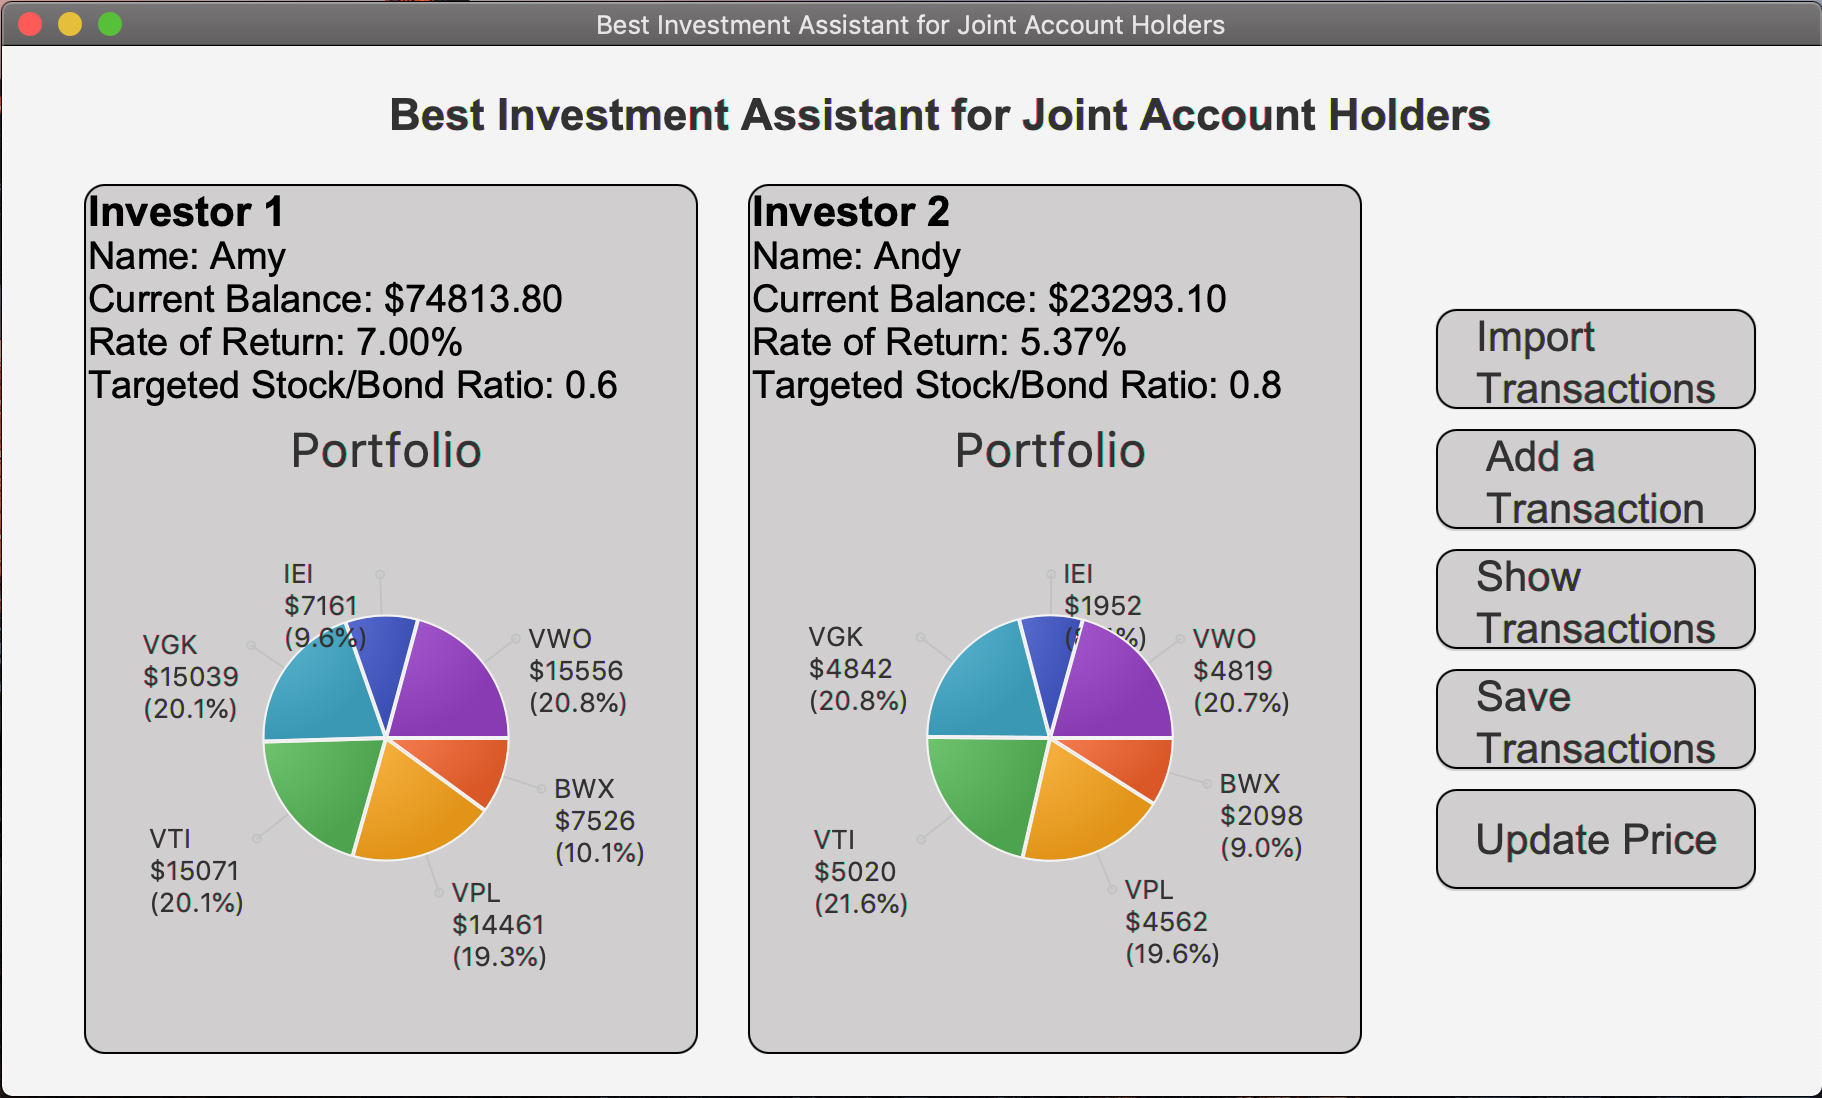
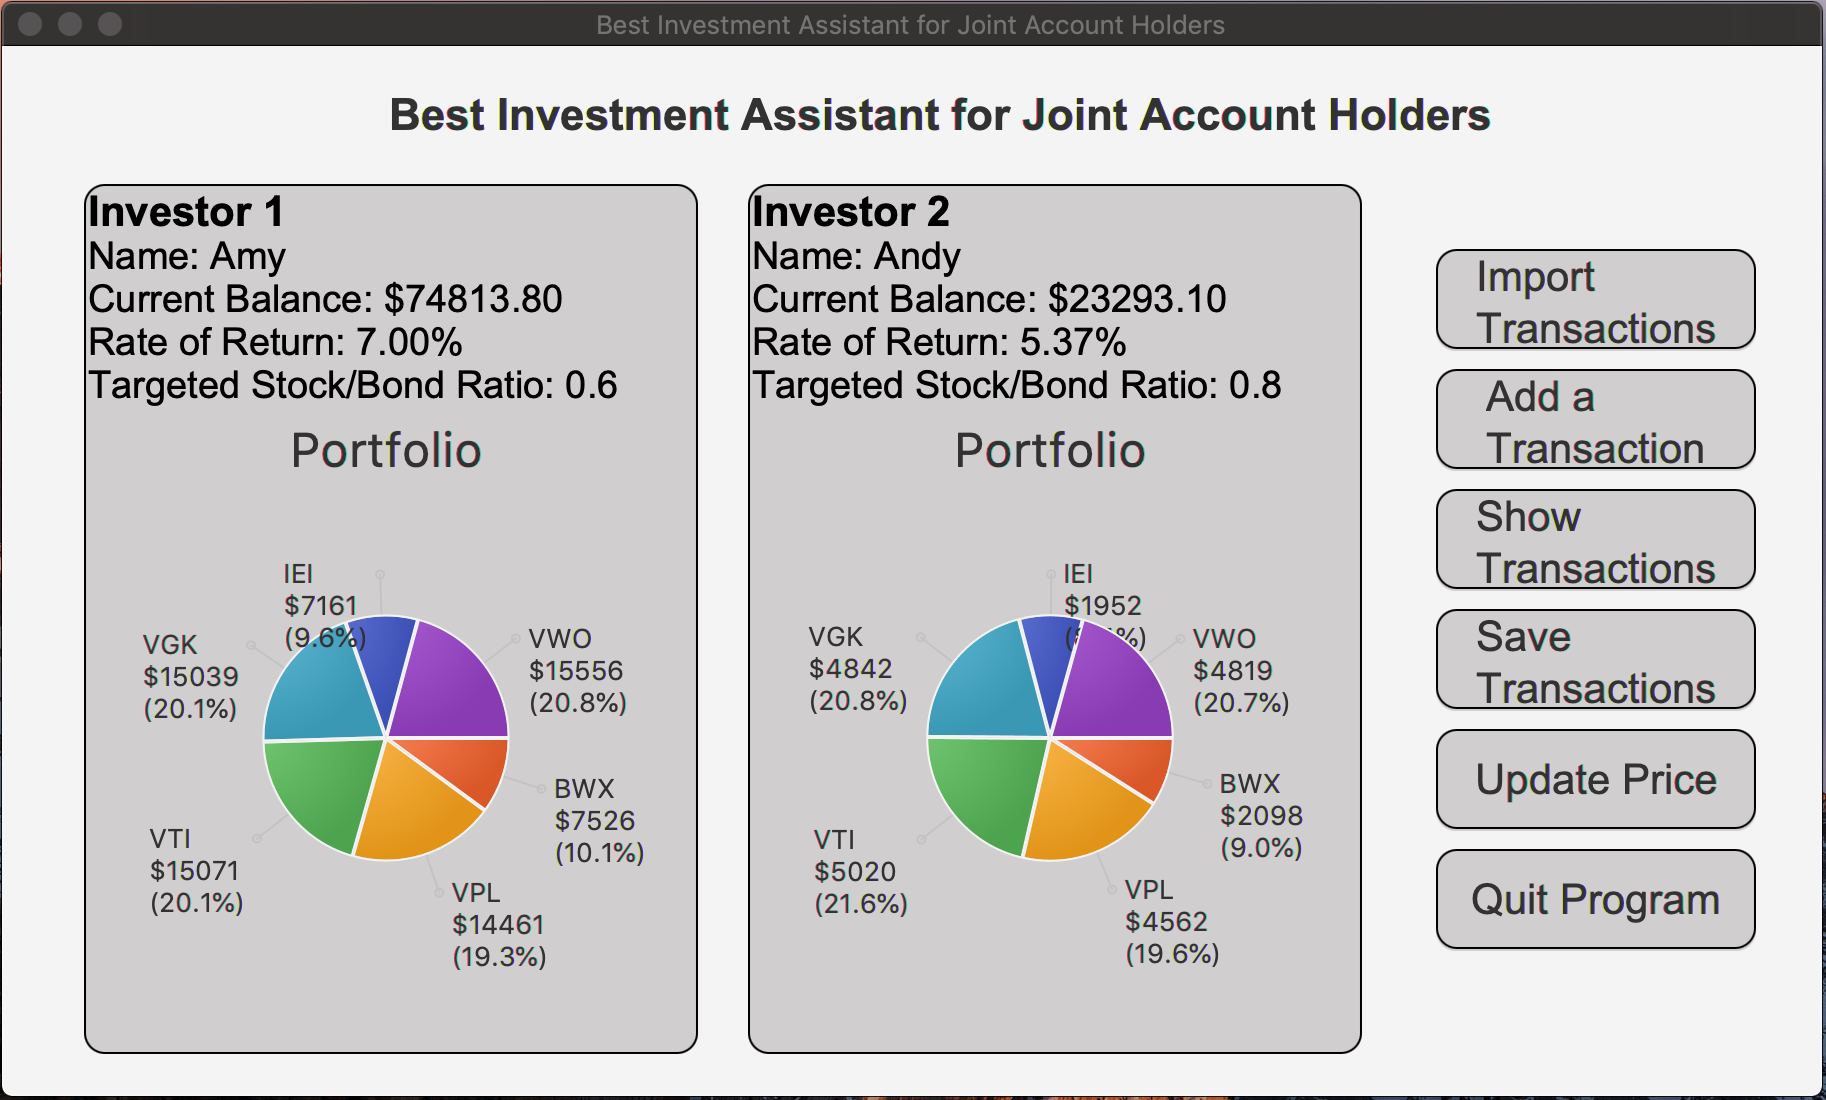
a3: add "quite program" button

diff --git a/application/Main.java b/application/Main.java
@@ -61,6 +61,7 @@ import javafx.scene.chart.PieChart;
 import javafx.scene.control.Alert;
 import javafx.scene.control.Alert.AlertType;
 import javafx.scene.control.Button;
+import javafx.scene.control.ButtonType;
 import javafx.scene.control.ComboBox;
 import javafx.scene.control.DatePicker;
 import javafx.scene.control.Label;
@@ -240,10 +241,11 @@ public class Main extends Application {
 		Button buttonShowTransactions = new Button("Show \nTransactions");
 		Button buttonSaveTransactions = new Button("Save \nTransactions");
 		Button buttonUpdatePrice = new Button("Update Price");
+		Button buttonQuit = new Button("Quit Program");
 
 		// collect the buttons to a list
 		Button menuButtonsList[] = { buttonImport, buttonAddTransaction, buttonShowTransactions,
-				buttonSaveTransactions, buttonUpdatePrice };
+				buttonSaveTransactions, buttonUpdatePrice, buttonQuit };
 		// add styled buttons to the box
 		for (int indexButton = 0; indexButton < menuButtonsList.length; indexButton++) {
 			// set the styles of the buttons
@@ -268,6 +270,8 @@ public class Main extends Application {
 		buttonSaveTransactions.setOnAction(new SaveTransactionsButtomHandler(primaryWindow));
 		// the "update price" button
 		buttonUpdatePrice.setOnAction(new UpdatePriceButtomHandler(primaryWindow));
+		// the "quit program" button
+		buttonQuit.setOnAction(new QuiteProgramButtomHandler(primaryWindow));
 		/**
 		 * Define the stage based on the scene
 		 */
@@ -1303,6 +1307,40 @@ public class Main extends Application {
 				}
 			});
 		}
-
 	};
+
+	/**
+	 * The event handler for the 'quite program' button.
+	 * 
+	 * @author Chuang, Yun-Shiuan (Sean)
+	 * @email ychuang26@wisc.edu
+	 * @date 20200801
+	 */
+	private class QuiteProgramButtomHandler implements EventHandler<ActionEvent> {
+		private final Stage primaryWindow;
+
+		public QuiteProgramButtomHandler(Stage primaryWindow) {
+			this.primaryWindow = primaryWindow;
+		}
+
+		@Override
+		public void handle(ActionEvent event) {
+
+			// ask for confirmation
+			Alert alert = new Alert(AlertType.CONFIRMATION);
+			alert.setTitle("Confirm to quit the program");
+			alert.setHeaderText("Are you sure you want to quit the program?");
+			alert.setContentText("Note: If you want to use the program later with the"
+					+ " records you have imported/added, "
+					+ " please use 'Save Transactions' to save the records.");
+
+			Optional<ButtonType> result = alert.showAndWait();
+			if (result.get() == ButtonType.OK) {
+				primaryWindow.close();
+			} else {
+				alert.close();
+			}
+		};
+	}
+
 }
